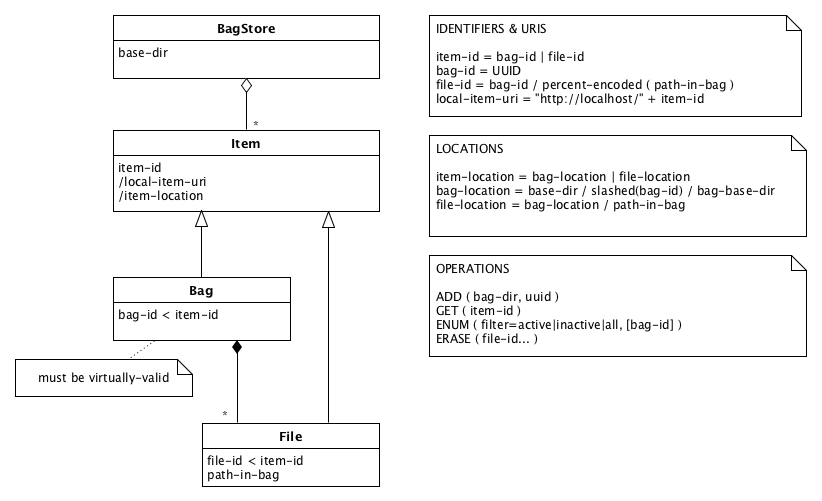
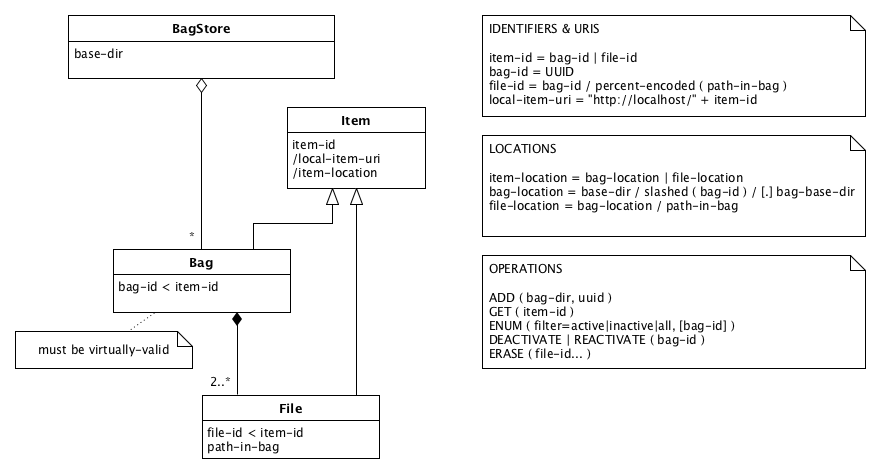
WIP

diff --git a/bag-store.md b/bag-store.md
@@ -1,0 +1,102 @@
+The BagStore
+============
+
+Introduction
+------------
+
+A BagStore is a way to store and identify data packages following a few very simple rules.
+ 
+(See [tutorial] for a more hands-on introduction.)
+
+Structure
+---------
+1. **DEFINITION**: a **BagStore** is a collection of immutable **Bag**s (see [BagIt]) stored on a 
+   hierarchical files system, under a common directory, the **base-dir**.
+2. **VIRTUALLY-VALID**: all the the Bags in the BagStore must be **virtually-valid**. A Bag is
+   virtually-valid when:
+    - it is valid ([as defined by the BagIt specs]), or
+    - it is incomplete, but contains a `fetch.txt` file and can be made valid by fetching the files
+      listed in it (and removing `fetch.txt` and its checksums from the Bag). If local-item-uris (see
+      next point) are used, they must reference Items in the same BagStore.
+3. **ITEM-ID:** an **Item** is a Bag or a **File** in a Bag. Each Item has an **item-id**.
+    - **bag-id** = `<uuid>`, that is a [UUID]
+    - **file-id** = `<bag-id>/percent-encoded(path-in-bag)`, where **percent-encoded** means that the 
+      path-components are percent encoded as described in [RFC3986] and **path-in-bag** is the relative
+      path of the File in the bag, after `fetch.txt` has been resolved.
+    
+    Each Item also has a locally resolvable URI (i.e. resolvable in the same BagStore):
+
+    - **local-item-uri** = `http://localhost/<item-id>`
+
+    (Globally resolvable URIs may also be defined for Items. How these are mapped to **item-id**s is
+    up to the implementor of the BagStore.)
+4. **ITEM-LOCATION:** each Item has a defined **item-location** on the file system:
+    - **bag-location** = `<base-dir>/slashed(<uuid>)/[.]<bag-base-dir>`, where **slashed** means that
+      the UUID is stripped of hyphens and then subdivided into several groups of characters, with the
+      slash as separator. The sizes of the groups of characters must be consistent throughout the
+      BagStore. The dot is inserted if the Bag is inactive (see point 5). **bag-base-dir** is the Bag's base directory.
+    - **file-location** = `<bag-location>/<path-in-bag>`. If a File is included through the `fetch.txt`
+      file, its actual location can be obtained by resolving its URL in `fetch.txt`.
+5. **INACTIVE**: a Bag is either **active** or **inactive**. It is inactive if the bag-base-dir is preceded 
+   by a dot. It must start off active. The item-ids of a Bag and the Files it contains stay the same whether the Bag is active or inactive. 
+
+[tutorial]: ./tutorial.md
+[BagIt]: https://tools.ietf.org/html/draft-kunze-bagit
+[as defined by the BagIt specs]: https://tools.ietf.org/html/draft-kunze-bagit#section-3
+[UUID]: https://en.wikipedia.org/wiki/Universally_unique_identifier
+[RFC3986]: https://tools.ietf.org/html/rfc3986#section-2.1
+
+Operations
+----------
+On a BagStore the following operations are allowed:
+
+* `ADD` - add a new, virtually-valid Bag to the BagStore.
+* `ENUM` - enumerate all the Items in the BagStore or all the items in one Bag.
+* `GET` - copy an Item from the BagStore.
+* `DEACTIVATE` - mark a Bag as inactive.
+* `REACTIVATE` - reverse a deactivation.
+* `ERASE` - erase the contents of a particular Bag **payload** File, and update the corresponding 
+   entries in any affected payload manifests accordingly. 
+
+The `DEACTIVATE` operation marks a Bag as inactive. This involves marking the Bag directory as hidden 
+by prepending its name with a dot. Note that this operation does not require copying or modifying any 
+File data. The only "file" that is modified is the directory containing the Bag. On some file systems 
+this may still require write-privileges on the bag-base-dir.
+
+The `ERASE` operation is the one exception to the rule that Bags are immutable. It must only be used in cases
+where there is a legal obligation to destroy the data. For other use cases there are better solutions:
+
+* To support updates to Bags, add metadata that records that a Bag is part of a sequence of Bags, that together
+  form the revision history of one logical (and mutable) Bag. See for an example implementation the
+  [easy-bag-index] project.
+* To clean up a BagStore that has gathered too much "garbage", do a [Clean-up BagStore] migration.
+
+[easy-bag-index]: https://github.com/DANS-KNAW/easy-bag-index
+[Clean-up BagStore]: ./migrations.md#clean-up-bagstore
+
+Schematic summary
+-----------------
+
+The following diagram summarizes the structure and operations of a BagStore.
+
+![bag-store](./bag-store.png)   
+
+Remarks:
+* The notation `bag-id < item-id` is intended to mean that a bag-id is a special kind of item-id.
+* A slash preceding an attribute signifies that it is derivable from other attributes. (This is actually an existing UML notation.)
+* Note that there are at least two Files in a virtually-valid Bag, namely `bagit.txt` and the `data` directory (unless you do not count
+  directories as Files, of course, in which case it would be one).
+* All Items are ultimately contained in a BagStore, so one could argue that the BagStore should have been pictured to contain Items
+  rather than Bags. I have opted to stress the fact that a BagStore only *directly* contains Bags, leaving the fact that Files are 
+  indirectly contained in a BagStore implicit.
+
+Technical considerations
+------------------------
+
+### Slashing the bag-id
+
+The rationale for this is that some file systems suffer a performance loss when a directory gets overfull. By distributing the
+contents of the BagStore over subdirectories this problem is avoided. How deep to make the directory tree depends on the
+number of (expected) Bags. However, note that it is relatively easy to change this later on, with a series of move operations.
+In most (all?) file systems this means no data needs to be actually copied if the BagStore is contained in a single 
+storage volume.

diff --git a/README.md b/README.md
@@ -11,8 +11,8 @@ SYNOPSIS
     easy-bag-store [--base-dir,-b <dir>|--store,-s <name>]
                      # operations on bags in BagStore
                      | add <bag> [<uuid>]
-                     | get <item-id>
-                     | enum [--inactive,-i|--all,-a] [<bag-id>]
+                     | get <item-id> <out-location>
+                     | enum [[--inactive,-i|--all,-a] <bag-id>]
                      | deactivate <bag-id>
                      | reactivate <bag-id>
                      | verify [<bag-id>]
@@ -28,89 +28,10 @@ SYNOPSIS
 DESCRIPTION
 -----------
 
-A BagStore is a way to store and identify data packages following a few very simple rules.
- 
-(See [tutorial] for a more hands-on introduction.)
+A BagStore is a way to store and identify data packages following a few very simple rules. See the [BagStore] page
+for a description.
 
-### Structure
-1. **DEFINITION**: a **BagStore** is a collection of immutable **Bag**s (see [BagIt]) stored on a 
-   hierarchical files system, under a common directory, the **base-dir**.
-2. **VIRTUALLY-VALID**: all the the Bags in the BagStore must be **virtually-valid**. A Bag is
-   virtually-valid when:
-    - it is valid ([as defined by the BagIt specs]), or
-    - it is incomplete, but contains a `fetch.txt` file and can be made valid by fetching the files
-      listed in it (and removing `fetch.txt` and its checksums from the Bag). If local-item-uris (see
-      next point) are used, they must reference Items in the same BagStore.
-3. **ITEM-ID:** an **Item** is a Bag or a **File** in a Bag. Each Item has an **item-id**.
-    - **bag-id** = `<uuid>`, that is a [UUID]
-    - **file-id** = `<bag-id>/percent-encoded(path-in-bag)`, where **percent-encoded** means that the 
-      path-components are percent encoded as described in [RFC3986] and **path-in-bag** is the relative
-      path of the File in the bag, after `fetch.txt` has been resolved.
-    
-    Each Item also has a locally resolvable URI:
-
-    - **local-item-uri** = `http://localhost/<item-id>`
-
-    (Globally resolvable URIs may also be defined for Items. How these are mapped to **item-id**s is
-    up to the implementor of the BagStore.)
-4. **ITEM-LOCATION:** each Item has a defined **item-location** on the file system:
-    - **bag-location** = `<base-dir>/slashed(<uuid>)/[.]<bag-base-dir>`, where **slashed** means that
-      the UUID is stripped of hyphens and then subdivided into several groups of characters, with the
-      slash as separator. The sizes of the groups of characters must be consistent throughout the
-      BagStore. The dot is inserted if the Bag is inactive (see point 5). **bag-base-dir** is the Bag's base directory.
-    - **file-location** = `<bag-location>/<path-in-bag>`. If a File is included through the `fetch.txt`
-      file, its actual location can be obtained by resolving its URL in `fetch.txt`.
-5. **INACTIVE**: a Bag is either **active** or **inactive**. It starts off active. The item-ids of a Bag and the Files 
-   it contains stay the same whether the Bag is active or inactive. 
-
-[tutorial]: ./tutorial.md
-[BagIt]: https://tools.ietf.org/html/draft-kunze-bagit
-[as defined by the BagIt specs]: https://tools.ietf.org/html/draft-kunze-bagit#section-3
-[UUID]: https://en.wikipedia.org/wiki/Universally_unique_identifier
-[RFC3986]: https://tools.ietf.org/html/rfc3986#section-2.1
-
-### Operations
-On a BagStore the following operations are allowed:
-
-* `ADD` - add a new, virtually-valid Bag to the BagStore.
-* `ENUM` - enumerate all the Items in the BagStore or all the items in one Bag.
-* `GET` - copy an Item from the BagStore.
-* `DEACTIVATE` - mark a Bag as incorrect or not fit for dissemination in some way.
-* `REACTIVATE` - reverse a deactivation.
-* `ERASE` - erase the contents of a particular Bag **payload** File, and update the corresponding 
-   entries in any affected payload manifests accordingly. 
-
-The `DEACTIVATE` operation marks a Bag as inactive. This involves marking the Bag directory as hidden 
-by prepending its name with a dot. Note that this operation does not require copying or modifying any 
-File data. The only "file" that is modified is the directory containing the Bag. On some file systems 
-this may still require write-privileges on the bag-base-dir.
-
-The `ERASE` operation is the one exception to the rule that Bags are immutable. It must only be used in cases
-where there is a legal obligation to destroy the data. For other use cases there are better solutions:
-
-* To support updates to Bags, add metadata that records that a Bag is part of a sequence that together
-  form the revision history of one logical (and mutable) Bag. See for an example implementation the
-  [easy-bag-index] project.
-* To clean up a BagStore that has gathered too much "garbage", do a [Clean-up BagStore] migration.
-
-[easy-bag-index]: https://github.com/DANS-KNAW/easy-bag-index
-[Clean-up BagStore]: ./migrations.md#clean-up-bagstore
-
-### Summary of Structure and Operations
-
-The following diagram summarizes the structure and operations of a BagStore.
-
-![bag-store](./bag-store.png)   
-
-### Technical considerations
-
-#### Slashing the bag-id
-
-The rationale for this is that some file systems suffer a performance loss when a directory gets overfull. By distributing the
-contents of the BagStore over subdirectories this problem is avoided. How deep to make the directory tree depends on the
-number of (expected) bags. However, note that it is relatively easy to change this later on, with a series of move operations.
-In most (all?) file systems this means no data needs to be actually copied if the BagStore is contained in a single 
-storage volume.
+[BagStore]: bag-store.html
 
 
 INSTALLATION AND CONFIGURATION
